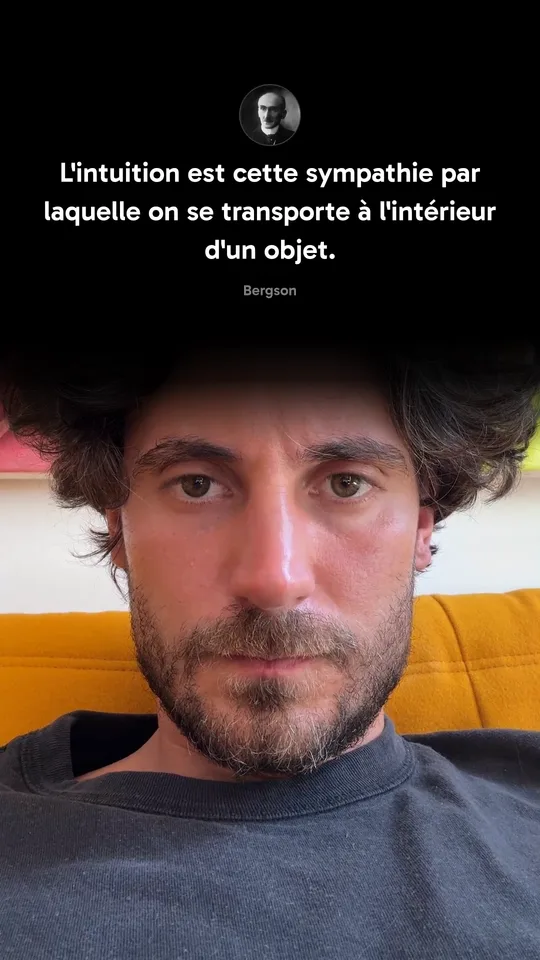
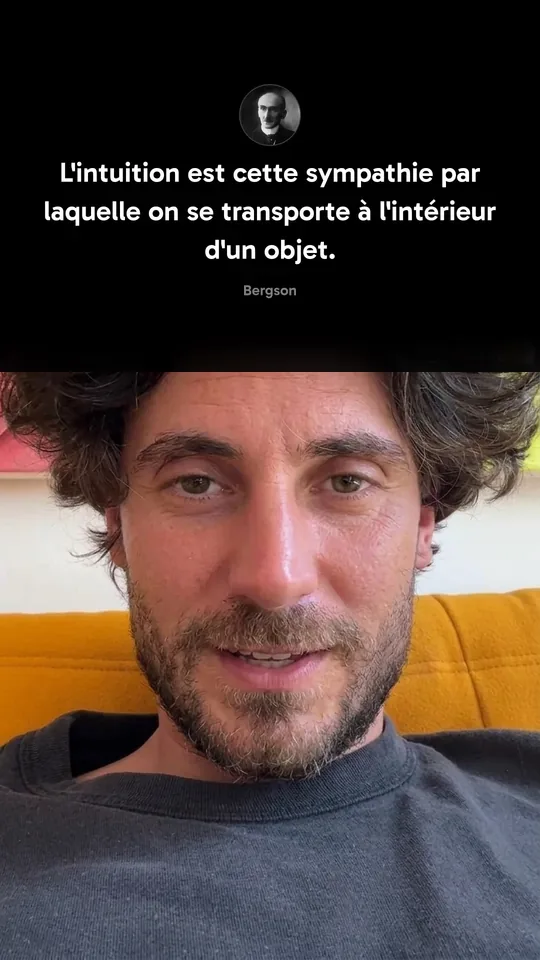
Formats : visage plus souriant ; formule visible dès le chargement
- Les sept visuels de la section formats qui montrent Kevin : seule
  l'expression est retouchée par IA (Gemini, il a l'air de parler et de
  sourire). Habillage, textes et cadrage d'origine remis pixel pour pixel.
- La formule du hero est rendue dans le HTML serveur (FormulaHeroStatic).
  Avant, elle n'arrivait qu'une fois tout le JavaScript chargé, et la flèche
  « Grâce à cette formule » pointait un vide pendant le chargement. La pilule
  animée prend la place de la copie statique dès qu'elle est à l'écran.

diff --git a/components/FormulaBar.tsx b/components/FormulaBar.tsx
@@ -153,6 +153,13 @@ export default function FormulaBar() {
     }
   }, [])
 
+  // La copie statique du hero (`FormulaHeroStatic`, dans le HTML serveur)
+  // s'efface une fois la pilule animée à l'écran, pas avant : sinon une image
+  // sans formule entre les deux.
+  useEffect(() => {
+    if (slot && mode !== 'hidden') slot.setAttribute('data-live', 'true')
+  }, [slot, mode])
+
   // Révélation des termes : un observer par ancre, déclenché quand le haut
   // de la section passe les 60 % du viewport. Une fois net, on n'y revient pas.
   useEffect(() => {
@@ -402,5 +409,52 @@ export default function FormulaBar() {
         </motion.div>
       )}
     </AnimatePresence>
+  )
+}
+
+/**
+ * La pilule du hero, sans JavaScript : rendue dans le HTML serveur pour que la
+ * formule s'affiche avec le titre. Avant, elle n'arrivait qu'à l'hydratation
+ * de toute la page (portal de `FormulaBar`, monté en bas de `app/page.tsx`) :
+ * la flèche « Grâce à cette formule » pointait un vide pendant le chargement.
+ * Même dessin que l'état `docked` ; elle disparaît dès que le slot reçoit
+ * `data-live` (voir l'effet de `FormulaBar`).
+ */
+export function FormulaHeroStatic({ fr }: { fr: boolean }) {
+  const label = (id: TermId) => {
+    const t = FORMULA_TERMS.find((x) => x.id === id)!
+    return fr ? t.fr : t.en
+  }
+  const Blur = ({ id }: { id: TermId }) => (
+    <span className="rounded-md px-1 font-extrabold tracking-tight text-white blur-[7px] opacity-40 select-none">{label(id)}</span>
+  )
+  const Op = ({ children }: { children: React.ReactNode }) => (
+    <span className="px-0.5 font-medium text-neutral-400">{children}</span>
+  )
+  return (
+    <div className="flex flex-col items-center group-data-[live=true]:hidden" aria-hidden>
+      <div className="relative">
+        <div className="relative overflow-hidden rounded-2xl border border-white/15 bg-black/75 shadow-[0_16px_50px_-16px_rgba(0,0,0,0.9)] backdrop-blur-xl">
+          <div className="pointer-events-none absolute inset-0 bg-[linear-gradient(180deg,rgba(255,255,255,0.12),rgba(255,255,255,0)_45%)]" />
+          <div className="relative flex items-center gap-2.5 px-4 py-2.5 text-xs sm:gap-3.5 sm:px-6 sm:py-3 sm:text-base md:gap-5 md:px-9 md:py-5 md:text-2xl">
+            <div className="flex flex-col items-center leading-none">
+              <div className="flex items-center whitespace-nowrap">
+                <Blur id="message" /><Op>×</Op><Blur id="format" /><Op>×</Op><Blur id="diffusion" />
+              </div>
+              <div className="my-1 h-px w-full bg-white/30" />
+              <div className="flex items-center whitespace-nowrap">
+                <Blur id="time" /><Op>+</Op><Blur id="cost" />
+              </div>
+            </div>
+            <Op>=</Op>
+            <span className="whitespace-nowrap rounded-md px-1 font-extrabold tracking-tight text-empire">{label('visibility')}</span>
+          </div>
+          <div className="absolute inset-x-0 bottom-0 h-[2px] bg-white/10" />
+        </div>
+        <span className="pointer-events-none absolute -right-3 -top-3 -rotate-[10deg] select-none rounded-[3px] border-[2.5px] border-red-500 px-1.5 py-0.5 font-mono text-[11px] font-black uppercase tracking-[0.22em] text-red-500 shadow-[0_0_18px_-4px_rgba(239,68,68,0.6)] mix-blend-screen sm:-right-4 sm:text-xs">
+          Secret
+        </span>
+      </div>
+    </div>
   )
 }

diff --git a/components/sections/HeroSection.tsx b/components/sections/HeroSection.tsx
@@ -8,6 +8,7 @@ import { SocialIcons } from '@/components/ui/social-icons'
 import FloatingSocialReactions from '@/components/FloatingSocialReactions'
 import { trackAmplitude } from '@/lib/amplitude'
 import { startFreeTrial } from '@/lib/startTrial'
+import { FormulaHeroStatic } from '@/components/FormulaBar'
 // Même jeu de portraits que `/vsl` et `FormatsShowcaseSection` (public/creators).
 const HERO_CREATORS = [
   { name: 'Alex Hormozi', img: '/creators/hormozi.jpg' },
@@ -140,8 +141,10 @@ export default function HeroSection() {
 
               <div
                 id="formula-hero-slot"
-                className="flex min-h-[80px] items-start justify-center sm:min-h-[100px]"
-              />
+                className="group flex min-h-[80px] items-start justify-center sm:min-h-[100px]"
+              >
+                <FormulaHeroStatic fr={lang === 'fr'} />
+              </div>
             </div>
           )}
 

diff --git a/components/sections/FormatsShowcaseSection.tsx b/components/sections/FormatsShowcaseSection.tsx
@@ -5,6 +5,10 @@
  * sortent de l'app.
  *
  * Les visuels vidéo (`/public/formats/*.webp`) ne sont pas des maquettes :
+ * (6 octobre 2026 : sur les sept qui montrent Kevin, seule l'expression du
+ * visage a été retouchée par IA, Gemini, pour qu'il ait l'air de parler et
+ * sourire ; habillage, textes et cadrage sont les rendus d'origine, remis
+ * pixel pour pixel par-dessus.)
  * ce sont les rendus réels du moteur de montage - flou → net, tier list et
  * sticker FAQ posés sur une vraie prise, citation et réaction sortis tels
  * quels d'un compose, `captions.webp` une image du reel « podcast » de Kevin
